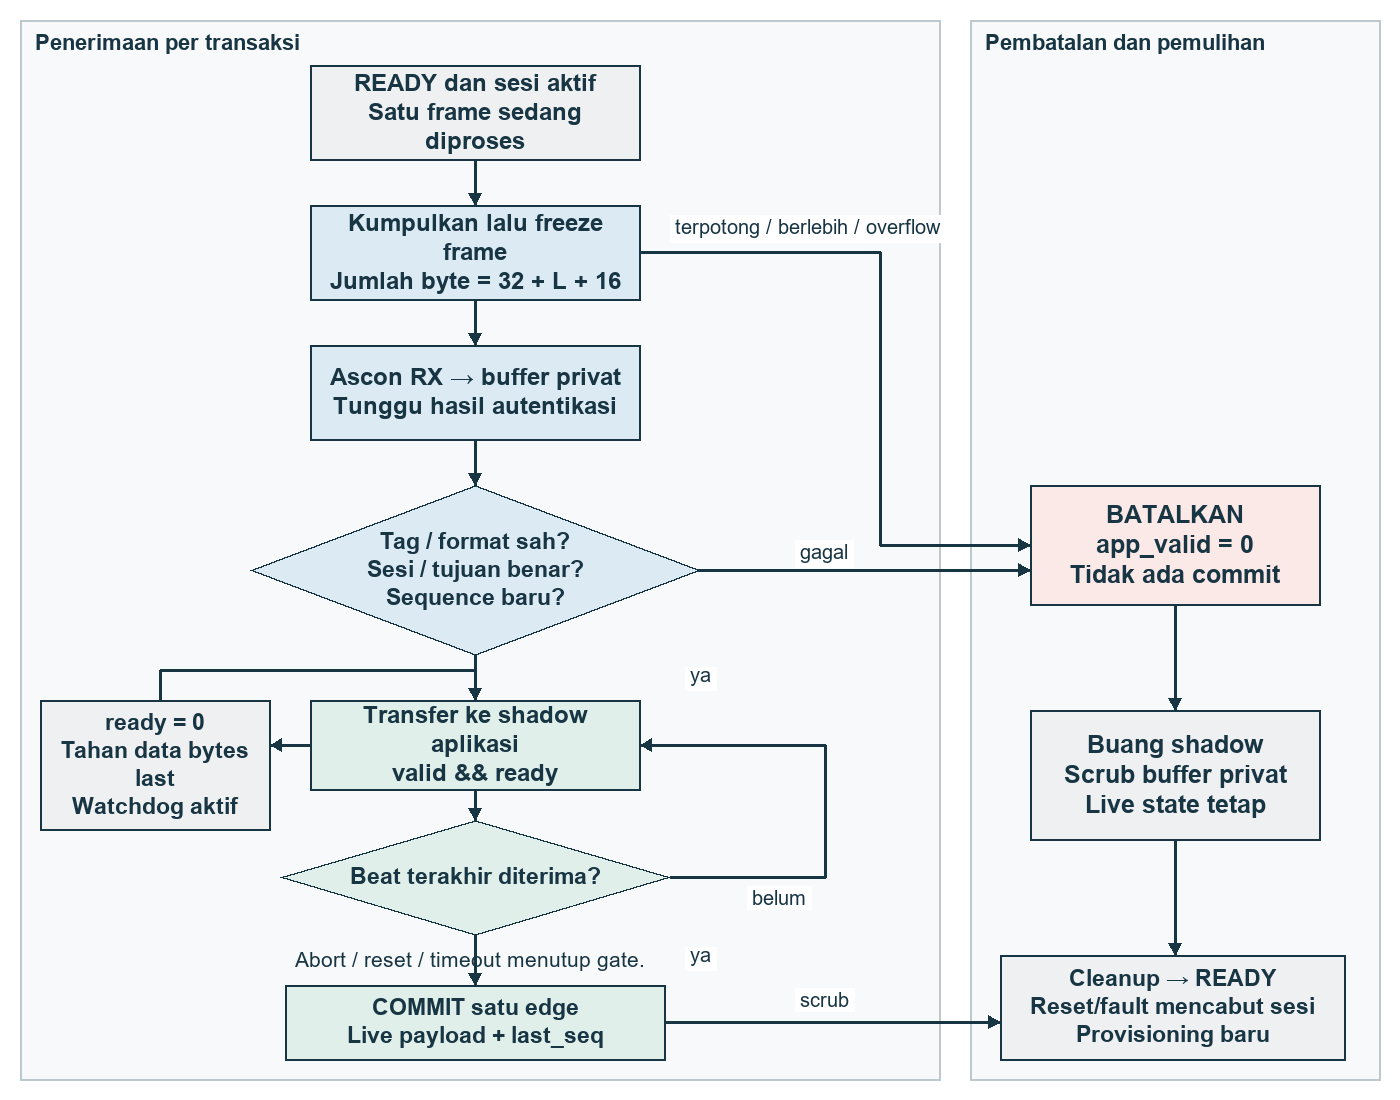
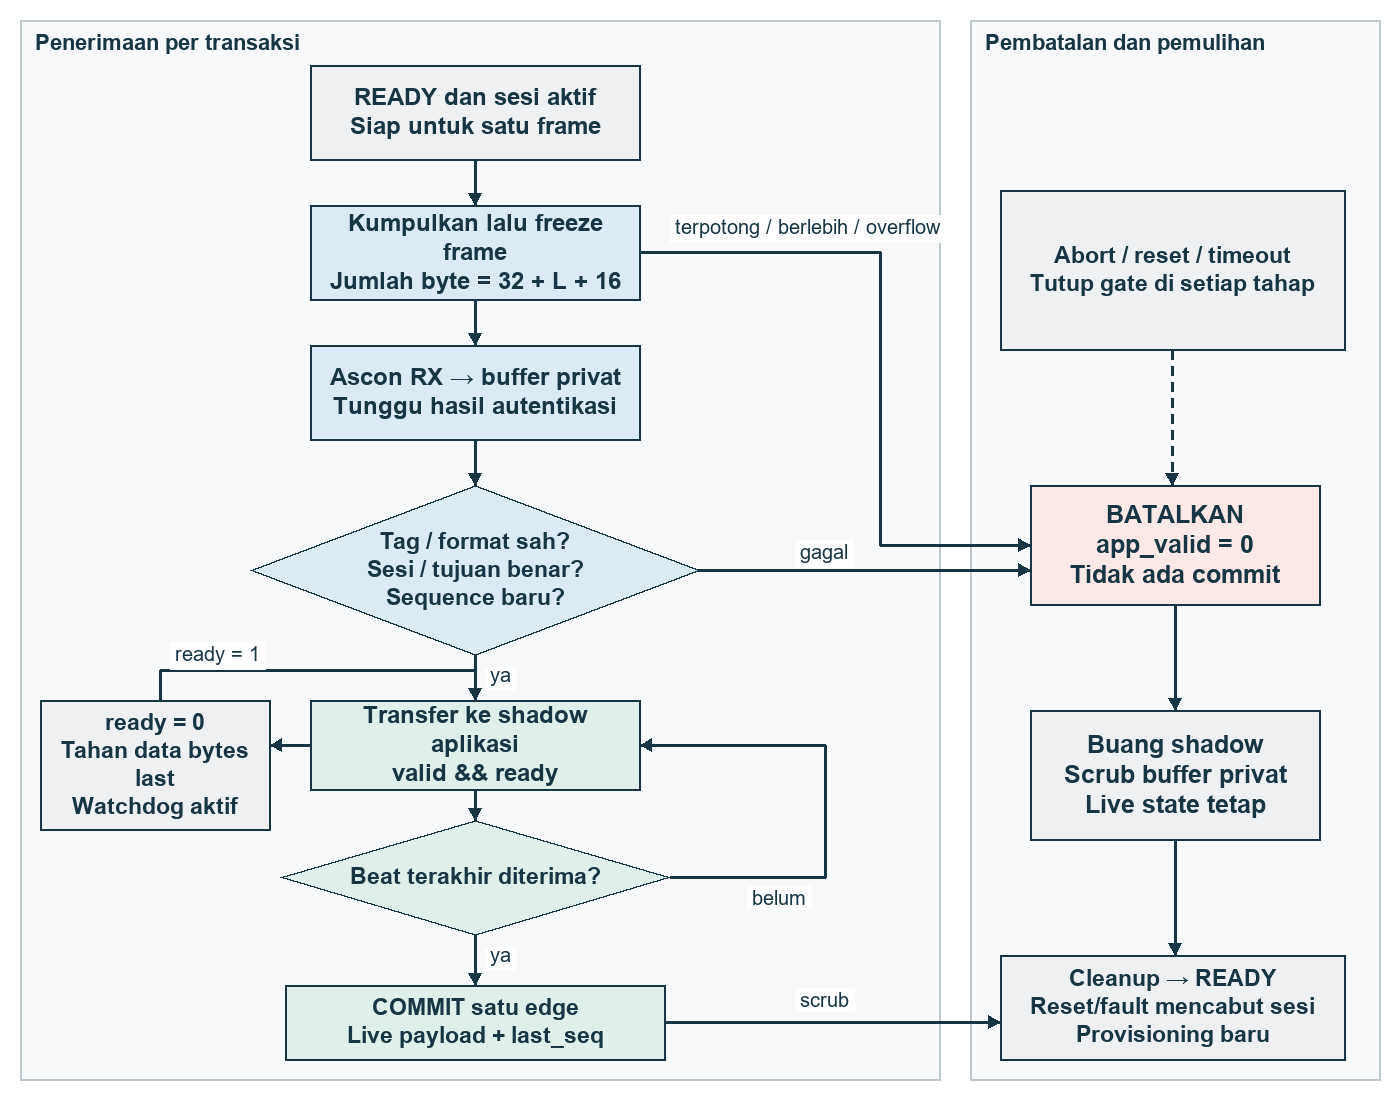
Clarify transaction recovery flow and editable diagram styling

diff --git a/scripts/build_figures.py b/scripts/build_figures.py
@@ -59,7 +59,7 @@ class Diagram:
    ft=font(n['size'],shape!='text');ls=lines(d,n['label'],ft,w-28);lh=n['size']+5
    yy=y+(h-lh*len(ls))/2
    for line in ls:d.text((x+(w-d.textlength(line,font=ft))/2,yy),line,font=ft,fill=INK);yy+=lh
-   style=('rhombus;' if shape=='diamond' else 'text;strokeColor=none;fillColor=none;' if shape=='text' else 'rounded=0;')+'whiteSpace=wrap;html=1;fontFamily=Arial;fontSize='+str(n['size'])+';fontColor='+INK+';strokeColor='+INK+';fillColor='+n['fill']+';'
+   style=('rhombus;' if shape=='diamond' else 'text;' if shape=='text' else 'rounded=0;')+'whiteSpace=wrap;html=1;fontFamily=Arial;fontSize='+str(n['size'])+';fontStyle='+('0' if shape=='text' else '1')+';fontColor='+INK+';strokeColor='+('none' if shape=='text' else INK)+';fillColor='+('none' if shape=='text' else n['fill'])+';'
    c=E.SubElement(cells,'mxCell',id=n['id'],value=html.escape(n['label']).replace('\n','<br>'),style=style,vertex='1',parent='1')
    E.SubElement(c,'mxGeometry',x=str(x),y=str(y),width=str(w),height=str(h),attrib={'as':'geometry'})
   img.save(F/(self.name+'.png'))
@@ -94,7 +94,7 @@ a.edge('hps','adapter',[(1000,115),(1000,320),(1000,350)],label='konteks',pos=(1
 a.node('legend','Biru/hijau = RTL diuji; abu-abu = rencana integrasi. Parser belum diuji end-to-end dengan core.',300,765,1050,42,shape='text',size=22);D.append(a)
 f=Diagram('03_acceptance',1400,1100)
 f.band('Penerimaan per transaksi',20,20,920,1060);f.band('Pembatalan dan pemulihan',970,20,410,1060)
-f.node('ready','READY dan sesi aktif\nSatu frame sedang diproses',310,65,330,95,GRAY)
+f.node('ready','READY dan sesi aktif\nSiap untuk satu frame',310,65,330,95,GRAY)
 f.node('frame','Kumpulkan lalu freeze frame\nJumlah byte = 32 + L + 16',310,205,330,95,BLUE)
 f.node('crypt','Ascon RX → buffer privat\nTunggu hasil autentikasi',310,345,330,95,BLUE)
 f.node('policy','Tag / format sah?\nSesi / tujuan benar?\nSequence baru?',250,485,450,170,BLUE,'diamond',23)
@@ -107,16 +107,18 @@ f.node('cleanup','Buang shadow\nScrub buffer privat\nLive state tetap',1030,710,
 f.node('recover','Cleanup → READY\nReset/fault mencabut sesi\nProvisioning baru',1000,955,345,105,GRAY,size=23)
 for aa,bb in [('ready','frame'),('frame','crypt'),('crypt','policy'),('policy','release'),('release','last'),('last','commit')]:
  n=next(x for x in f.nodes if x['id']==aa);m=next(x for x in f.nodes if x['id']==bb)
- f.edge(aa,bb,[(n['x']+n['w']/2,n['y']+n['h']),(m['x']+m['w']/2,m['y'])],label='ya' if aa in ['policy','last'] else '',pos=(690,n['y']+n['h']+8) if aa in ['policy','last'] else None)
+ f.edge(aa,bb,[(n['x']+n['w']/2,n['y']+n['h']),(m['x']+m['w']/2,m['y'])],label='ya' if aa in ['policy','last'] else '',pos=(490,n['y']+n['h']+8) if aa in ['policy','last'] else None)
 f.edge('frame','reject',[(640,252),(880,252),(880,545),(1030,545)],label='terpotong / berlebih / overflow',pos=(675,215))
 f.edge('policy','reject',[(670,570),(1030,570)],label='gagal',pos=(800,540))
 f.edge('release','stall',[(310,745),(270,745)])
-f.edge('stall','release',[(160,700),(160,670),(475,670),(475,700)])
+f.edge('stall','release',[(160,700),(160,670),(475,670),(475,700)],label='ready = 1',pos=(175,642))
 f.edge('last','release',[(670,877),(825,877),(825,745),(640,745)],label='belum',pos=(752,886))
 f.edge('reject','cleanup',[(1175,605),(1175,710)])
 f.edge('cleanup','recover',[(1175,840),(1175,955)])
 f.edge('commit','recover',[(665,1022),(1000,1022)],label='scrub',pos=(800,988))
-f.node('interrupt','Abort / reset / timeout menutup gate.',45,945,850,30,shape='text',size=21);D.append(f)
+f.node('interrupt','Abort / reset / timeout\nTutup gate di setiap tahap',1000,190,345,160,GRAY,size=23)
+f.edge('interrupt','reject',[(1172,350),(1172,485)],dashed=True)
+D.append(f)
 b=Diagram('04_budget',1400,710)
 b.node('title','Anggaran integrasi DE10-Nano   belum hasil fitting',30,10,1340,55,shape='text',size=31)
 rows=[('Resource','Batas rancangan','Kapasitas A6','Porsi anggaran'),('ALM','≤6.000','41.910','14,32%'),('Register','≤5.000','167.640','2,98%'),('M10K','≤6 blok','557 blok','1,08%'),('DSP','0','112 blok','0%'),('FPGA PLL','≤1','6','16,67%')]
@@ -129,7 +131,7 @@ b.node('note','Pemetaan M10K bergantung pada bank, port dan inference. Laporkan 
 mx=E.Element('mxfile',host='app.diagrams.net',version='24.7.17',type='device')
 for item in D:item.export(mx)
 (R/'diagrams').mkdir(exist_ok=True)
-E.indent(mx);E.ElementTree(mx).write(R/'diagrams/SENTINEL_Design.drawio',encoding='utf-8',xml_declaration=True)
+E.indent(mx);(R/'diagrams/SENTINEL_Design.drawio').write_bytes(E.tostring(mx,encoding='utf-8',xml_declaration=True))
 
 # Waveform from CSV, with exact event boundaries derived from the run.
 rows=list(csv.DictReader((R/'evidence/trace.csv').open()))

diff --git a/docs/review.md b/docs/review.md
@@ -12,7 +12,7 @@
 | p99 belum punya dataset khusus | 1.024 sampel 64 byte acak tanpa stall | Median/p99 140 siklus simulasi |
 | Assertion sendiri belum diuji | Dua mutant acceptance harus gagal | mutation_results.json |
 | Diagram hanya gambar jadi | draw.io 4 halaman dan PNG yang konsisten | Konsep solusi, arsitektur, alur penerimaan, budget |
-| Paket belum dapat dipelihara otomatis | Make targets, CI, hash evidence/source, panduan demo | CI diuji setelah publikasi |
+| Paket belum dapat dipelihara otomatis | Make targets, CI, hash evidence/source, panduan demo | [CI lulus setelah publikasi](https://github.com/Fijarsatria/SENTINEL/actions/runs/37769224704) |
 
 ## Pekerjaan berikut yang menentukan kesiapan board
 
